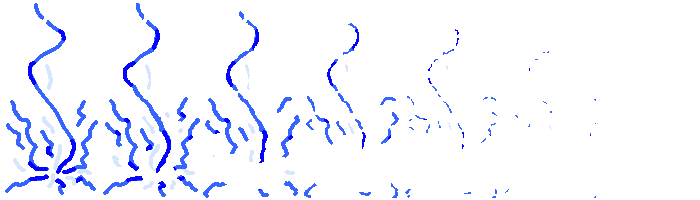
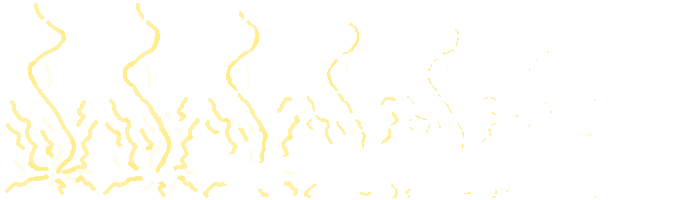
Volcano, lightning, props and spell tuning
- Volcano: CC0 mountain sprite, leaning with and sunk into the slope, vent in the fire breath's pixel fire, crater tracking the mountain.
- Props (graves, bushes, statues) stand on the smooth slope, tilted and sunk into the ground.
- Lightning recoloured to a pale yellow; storm strikes stack from the ground up to the cloud.
- Fire breath starts at the wizard's face and follows the facing as it turns.
- Barrier stops projectiles only; mudslide scales like the stone wall; gravity well pulls harder.
- Ice prison: longer, and freezes the player the same way it freezes mobs, with the shatter bonus.
- Push lifts mobs as strongly as the player; mudslide slows mobs and stops their jumps.
- Earth fall rocks have stone wall health and bump by speed; force wall stays longer.

diff --git a/art/CREDITS.md b/art/CREDITS.md
@@ -84,3 +84,7 @@ and are no longer drawn by the game.
 ## Fire (fire wall, fire breath, burning ground)
 
 - `art/fx/fire_wall.png` (fire-b), `art/fx/fire_puff.png` (fire-a) and `art/fx/fire_trail.png` (fire-d): [Pixel Flame VFX](https://opengameart.org/node/108106) by zonked, CC0.
+
+## Volcano
+
+- `art/props/volcano_mound.png`: [2D Platformer Volcano Pack 1.1](https://opengameart.org/content/2d-platformer-volcano-pack-11) by Tio Aimar, CC0 (volcano_pack_68).
